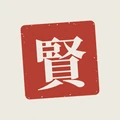
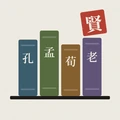
현자의 서재: 새 앱 아이콘(책꽂이 + 賢 인장) · 공유 이미지 · 고민 40·구절 160
- 아이콘: 앱 프로젝트 site/web-icons 그대로 — favicon.ico · favicon-32 · apple-touch-icon,
  상단 로고·마무리 아이콘(icon-120/256), 예아플러스 홈 제품 목록 아이콘도 새 것으로
- 공유 이미지(og.jpg): 앱 화면 일부 → 스토어 헤더 아트(네 현자 상상도 + 제목)
- 소개: 정식판 초안(content.json 1.0-draft, 10/13) 수량을 적는다 — 히어로 칩, 원탁 설명, 구매 항목, 공유 설명
- 개인정보 처리방침 · 이용 약관 · 도움말은 앱 동작이 바뀌지 않아 그대로

Claude-Session: https://claude.ai/code/session_01GcxDg8HwpmhQNjcecpaQPK

diff --git a/app/(hyunja)/hyunja/HomeContent.tsx b/app/(hyunja)/hyunja/HomeContent.tsx
@@ -8,7 +8,8 @@
  *  · 구절 한 장: 원문 → 음독 → 번역 → 풀이를 눌러 층층이 펼친다
  *  · 필사: 한글 줄 공책 / 한문 원고지 전환 · 낙관 · 어록 · 카드 · 프라이버시
  * 본문과 구절은 앱의 content.json(파일럿 w1 '나를 함부로 대하는 사람이 있을 때')과
- * docs/METADATA_KO.md 문안을 그대로 가져왔다. 수량(고민·구절 편수)은 정식판 확정 전이라 적지 않는다.
+ * docs/METADATA_KO.md 문안을 그대로 가져왔다. 수량(고민 40·구절 160)은 정식판 초안(content.json 1.0-draft, 10/13)
+ * 기준이고 앱의 site/hyunja/index.html 과 같다. 감수로 편수가 바뀌면 여기도 고친다.
  * 화면 사진은 앱 웹 빌드(web/index.html)를 아이폰 크기로 띄워 그대로 찍은 것이다.
  */
 
@@ -117,6 +118,7 @@ function Hero() {
           </a>
         </Reveal>
         <Reveal as="ul" className="hj-pills" delay={300}>
+          <li>{L('고민 40 · 구절 160', '40 worries · 160 passages')}</li>
           <li>{L('한 번 구매', 'Buy once')}</li>
           <li>{L('광고 없음', 'No ads')}</li>
           <li>{L('회원 가입 없음', 'No account')}</li>
@@ -324,8 +326,8 @@ function RoundTable() {
             </div>
             <p className="hj-table-note">
               {L(
-                '네 사람의 답은 서로 다릅니다. 같은 고민에 곧게 맞서라는 말과 내려놓으라는 말이 함께 놓입니다. 어느 쪽이 지금 나에게 맞는지 고르면 됩니다.',
-                'The four answers disagree. “Stand straight” and “let it go” sit side by side on the same worry — you choose the one that fits you today.'
+                '네 사람의 답은 서로 다릅니다. 같은 고민에 곧게 맞서라는 말과 내려놓으라는 말이 함께 놓입니다. 어느 쪽이 지금 나에게 맞는지 고르면 됩니다. 고민 40가지마다 네 현자의 구절을 하나씩, 모두 160편을 실었습니다.',
+                'The four answers disagree. “Stand straight” and “let it go” sit side by side on the same worry — you choose the one that fits you today. Forty worries, one passage from each sage on every one: 160 in all.'
               )}
             </p>
           </div>
@@ -842,7 +844,7 @@ function Buy() {
             {L('사면 끝. 그다음은 없습니다.', 'Buy it once. That is the end of it.')}
           </h2>
           <ul>
-            <li>{L('한 번 구매로 모든 내용을 봅니다', 'One purchase opens everything')}</li>
+            <li>{L('한 번 구매로 고민 40가지 · 구절 160편을 모두 봅니다', 'One purchase opens all 40 worries and 160 passages')}</li>
             <li>{L('구독도, 앱 안 추가 결제도 없습니다', 'No subscription and no in-app purchases')}</li>
             <li>{L('광고가 없습니다', 'No advertising')}</li>
             <li>{L('글자 크기 세 단계 · 어두운 화면 지원', 'Three text sizes and a dark screen')}</li>

diff --git a/app/(hyunja)/layout.tsx b/app/(hyunja)/layout.tsx
@@ -21,12 +21,19 @@ export const metadata: Metadata = {
     locale: 'ko_KR',
     url: '/hyunja',
     title: TITLE,
-    description: '고민 하나에 네 현자의 답 · 필사 · 나의 어록. 한 번 구매 · 광고 없음 · 회원 가입 없음.',
+    description: '고민 40가지에 네 현자의 답 160편 · 필사 · 나의 어록. 한 번 구매 · 광고 없음 · 회원 가입 없음.',
     type: 'website',
     images: [{ url: '/hyunja/og.jpg', width: 1200, height: 630 }],
   },
   twitter: { card: 'summary_large_image' },
-  icons: { icon: '/hyunja/icon-512.png', apple: '/hyunja/icon-512.png' },
+  // 앱 아이콘(책꽂이의 네 권 + 賢 인장) — 앱 프로젝트 site/web-icons 에서 그대로 가져왔다
+  icons: {
+    icon: [
+      { url: '/hyunja/favicon.ico', sizes: 'any' },
+      { url: '/hyunja/favicon-32.png', sizes: '32x32', type: 'image/png' },
+    ],
+    apple: '/hyunja/apple-touch-icon.png',
+  },
 };
 
 export const viewport: Viewport = { themeColor: '#F4EFE4' };
